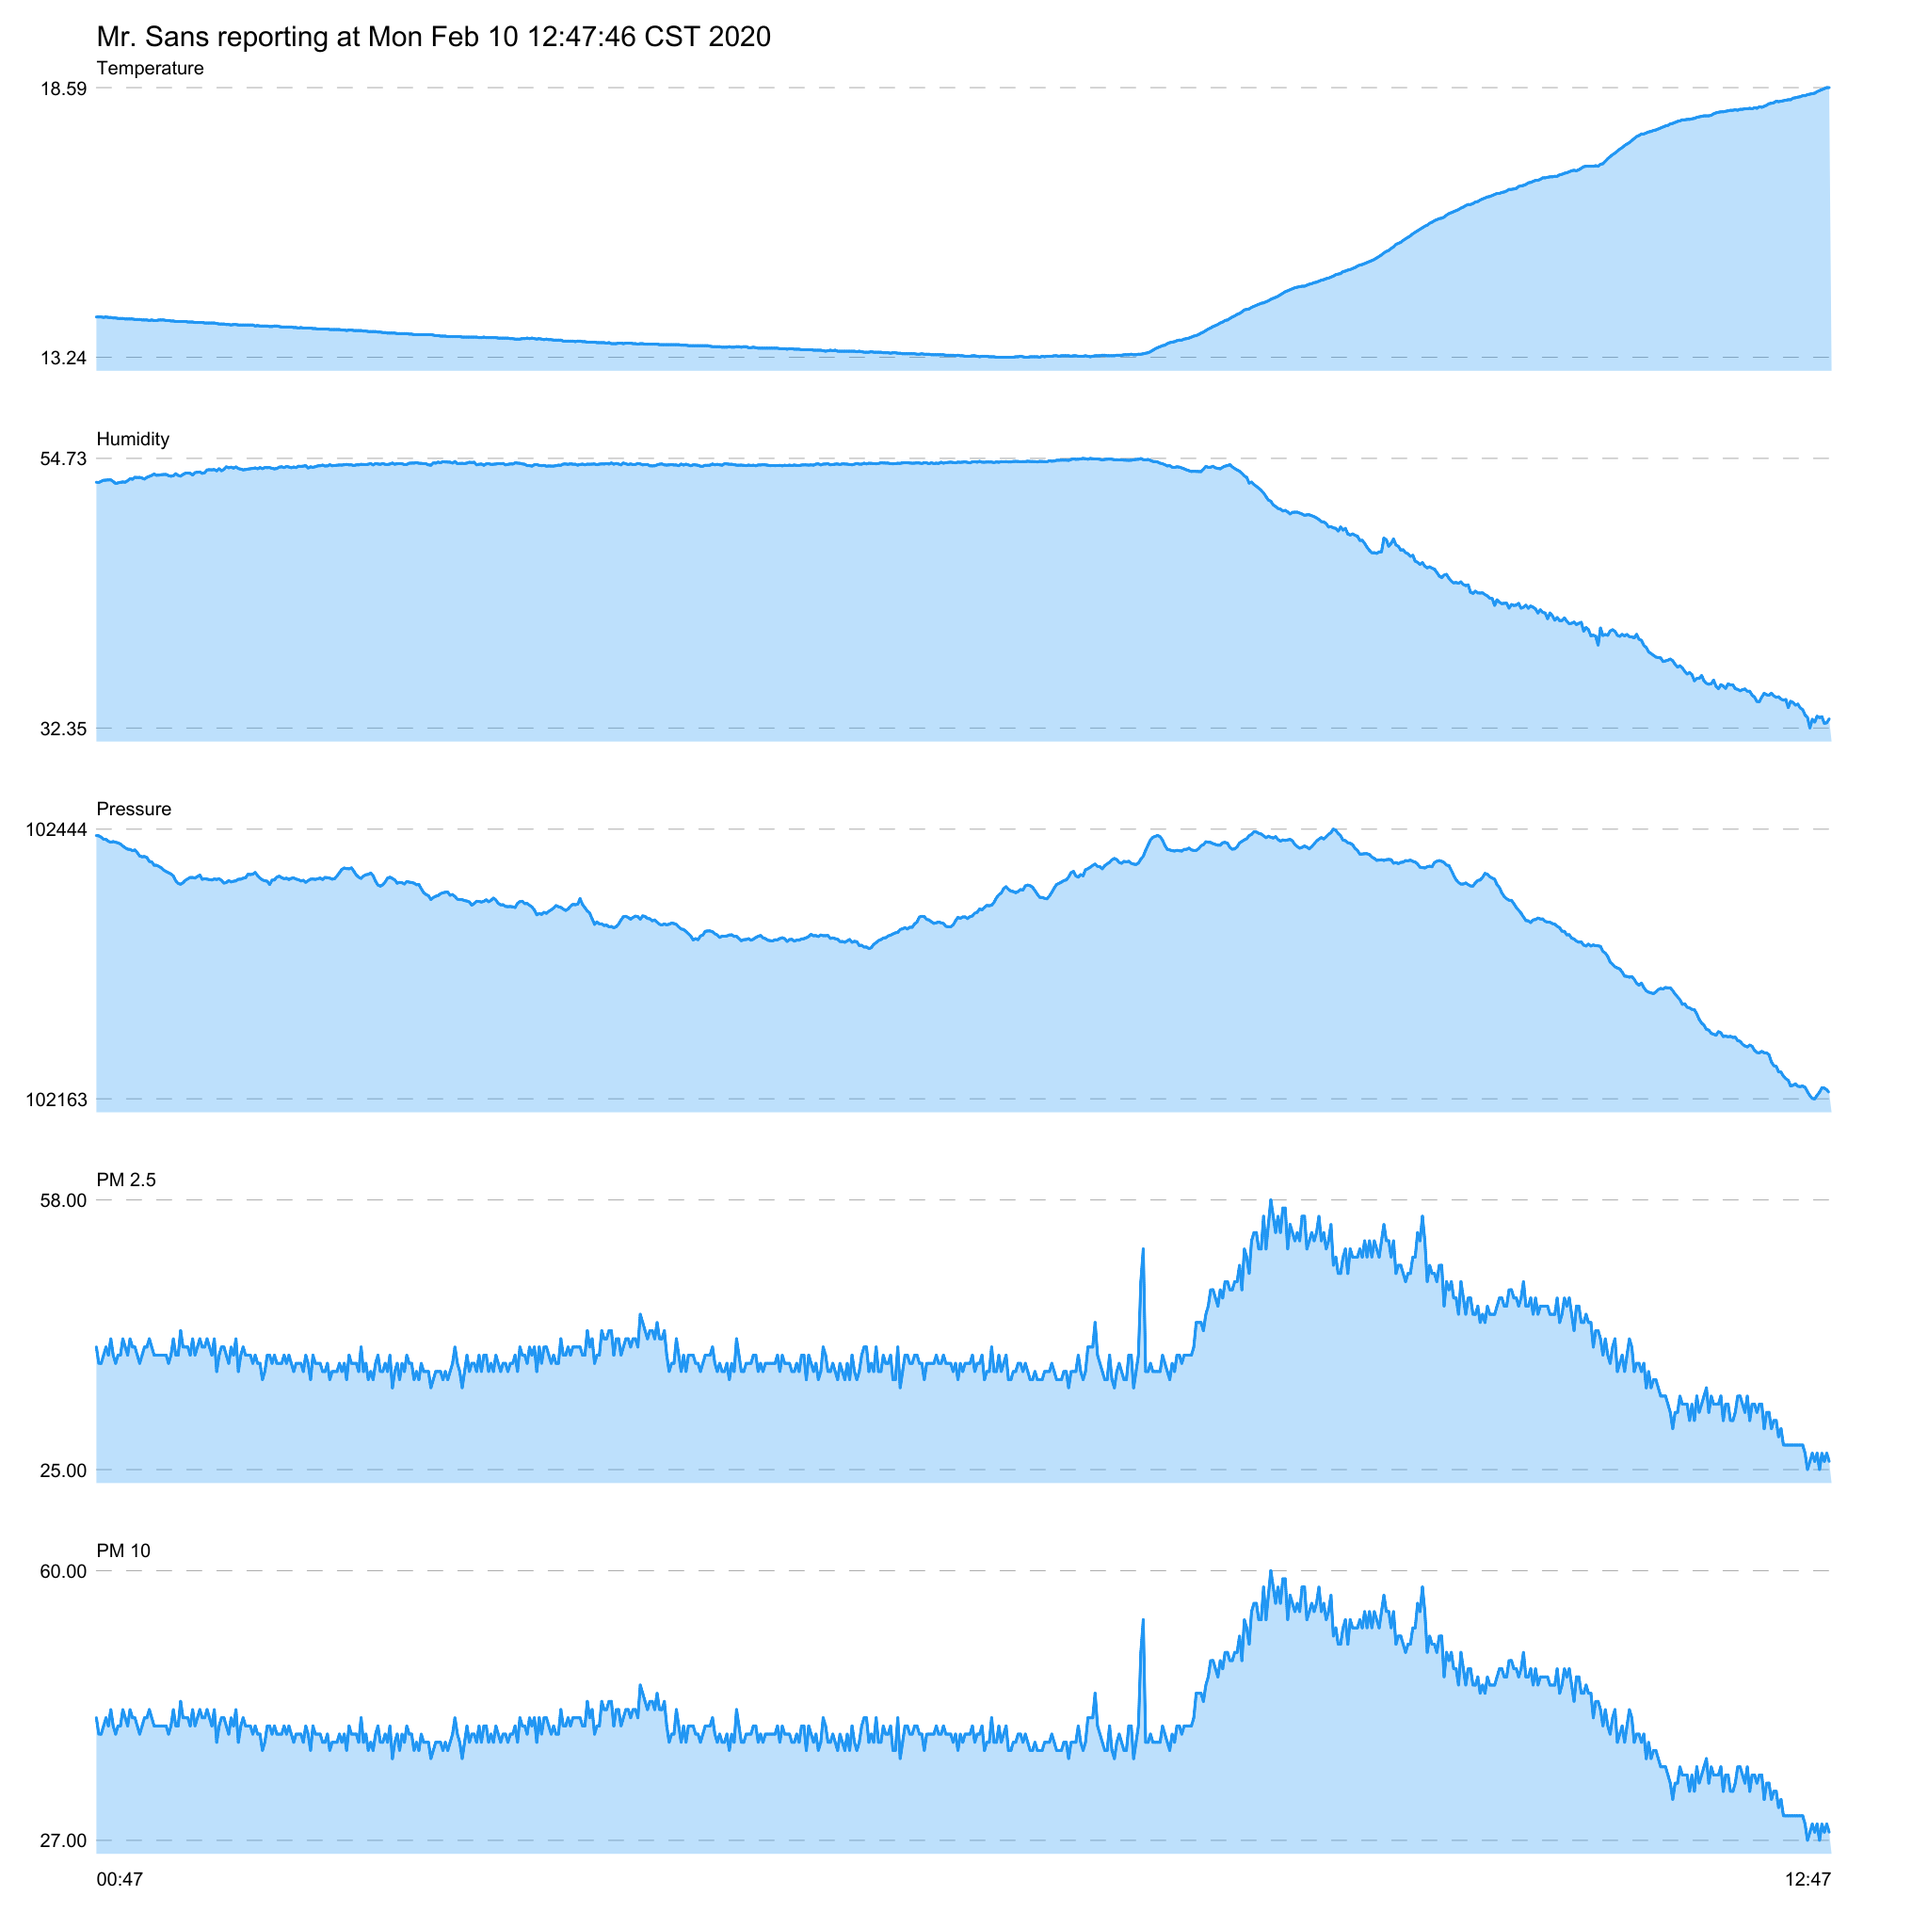
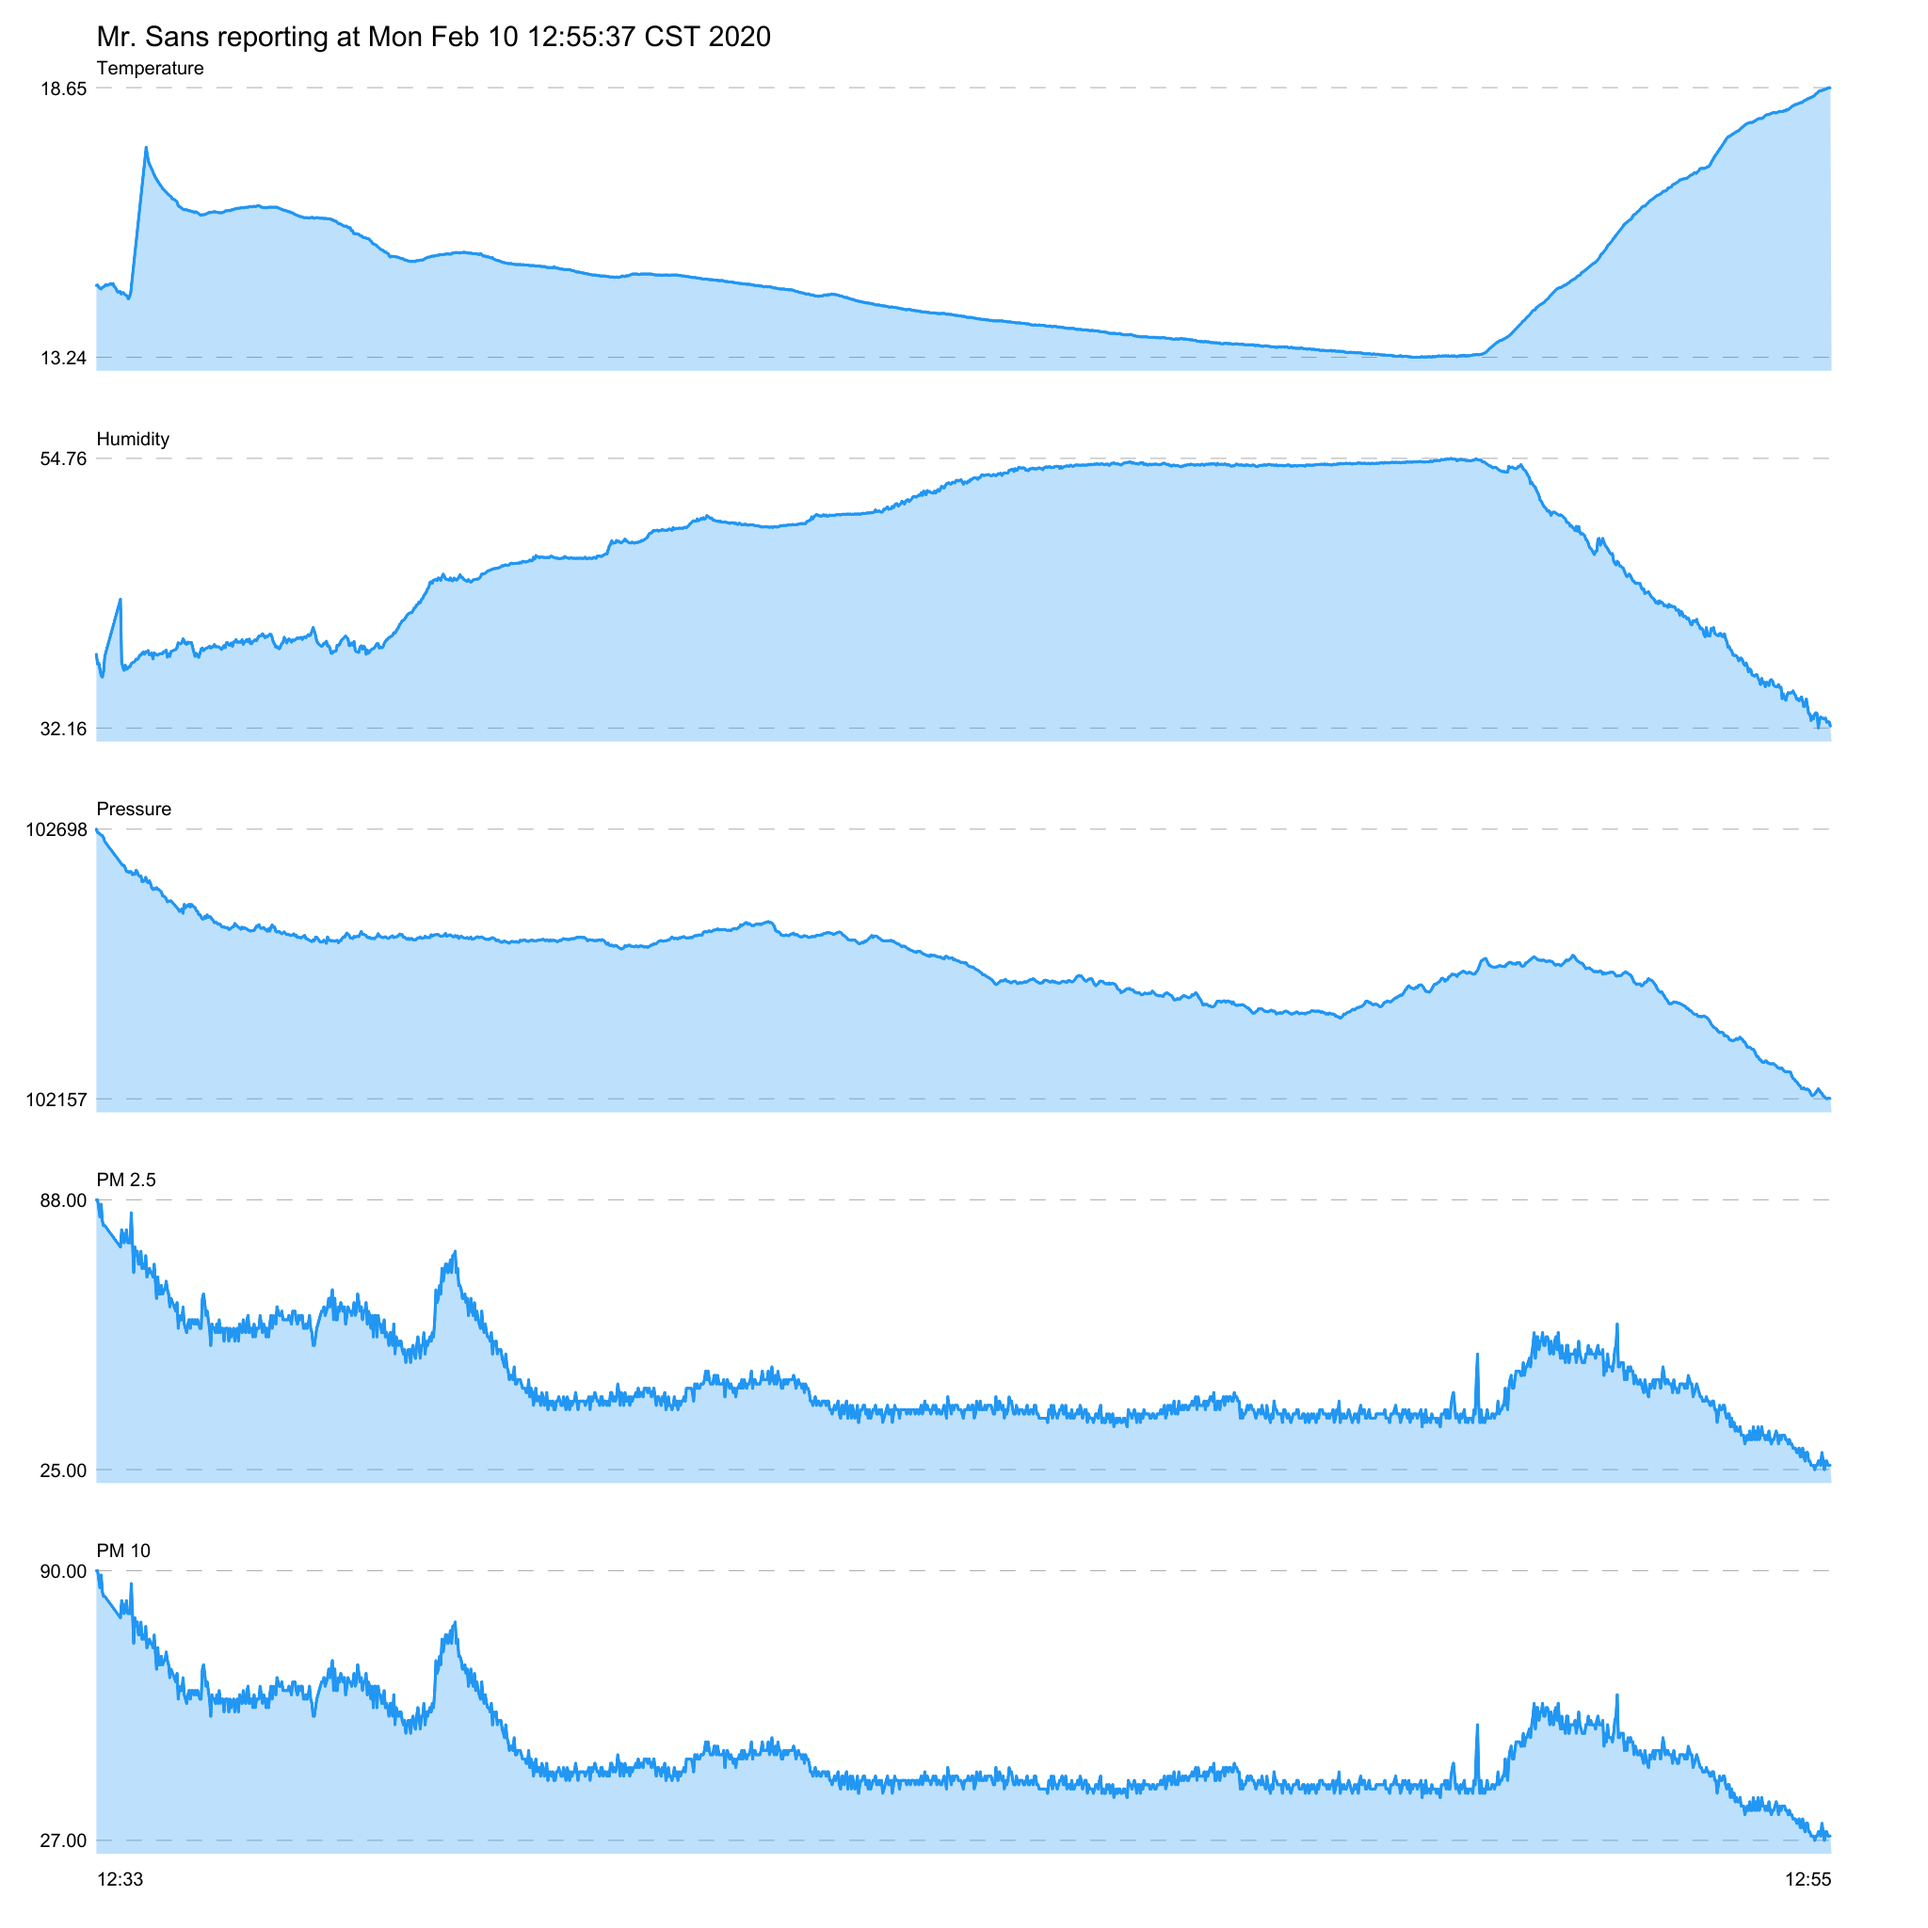
handle NaN in value

diff --git a/mrsans/plot.go b/mrsans/plot.go
@@ -30,16 +30,28 @@ func HeightSeries(total int, height float64) float64 {
 }
 
 func RangeOfSeries(series *[]model.SamplePair) (float64, float64) {
-	min := float64((*series)[0].Value)
-	max := min
+	first := true
+	min := 0.0
+	max := 1.0
 	for _, data := range *series {
-		min = math.Min(min, float64(data.Value))
-		max = math.Max(max, float64(data.Value))
+		val := float64(data.Value)
+		if !math.IsNaN(val) {
+			if first {
+				min = val
+				max = val
+				first = false
+			}
+			min = math.Min(min, val)
+			max = math.Max(max, val)
+		}
 	}
 	return min, max
 }
 
 func PercentageOf(data float64, min float64, max float64, margin float64) float64 {
+	if math.IsNaN(data) {
+		return 0
+	}
 	margin = (max - min) * margin
 	max += margin
 	min -= margin
@@ -93,6 +105,9 @@ func PlotSeries(series *[]model.SamplePair, ctx *gg.Context, y float64, height f
 	ctx.MoveTo(x_offset, y+height)
 	for idx, data := range *series {
 		percent := PercentageOf(float64(data.Value), min, max, margin)
+		if percent == 0 {
+			continue
+		}
 		ypos := height*(1-percent) + y
 		xpos := float64(idx)*width + x_offset
 		ctx.LineTo(xpos, ypos)
@@ -110,6 +125,9 @@ func PlotSeries(series *[]model.SamplePair, ctx *gg.Context, y float64, height f
 		percent := PercentageOf(float64(data.Value), min, max, margin)
 		ypos := height*(1-percent) + y
 		xpos := float64(idx)*width + x_offset
+		if percent == 0 {
+			continue
+		}
 		if first {
 			first = false
 		} else {

diff --git a/mrsans/main.go b/mrsans/main.go
@@ -11,27 +11,27 @@ func main() {
 	log.Info("loading config...")
 	LoadConfig()
 	temp := GetData(QueryTemperature(), v1.Range{
-		Start: time.Now().Add(-time.Hour * 12),
+		Start: time.Now().Add(-time.Hour * 24),
 		End:   time.Now(),
 		Step:  time.Minute,
 	}, context.Background())
 	hum := GetData(QueryHumidity(), v1.Range{
-		Start: time.Now().Add(-time.Hour * 12),
+		Start: time.Now().Add(-time.Hour * 24),
 		End:   time.Now(),
 		Step:  time.Minute,
 	}, context.Background())
 	pa := GetData(QueryPressure(), v1.Range{
-		Start: time.Now().Add(-time.Hour * 12),
+		Start: time.Now().Add(-time.Hour * 24),
 		End:   time.Now(),
 		Step:  time.Minute,
 	}, context.Background())
 	pm25 := GetData(QueryPM25(), v1.Range{
-		Start: time.Now().Add(-time.Hour * 12),
+		Start: time.Now().Add(-time.Hour * 24),
 		End:   time.Now(),
 		Step:  time.Minute,
 	}, context.Background())
 	pm10 := GetData(QueryPM10(), v1.Range{
-		Start: time.Now().Add(-time.Hour * 12),
+		Start: time.Now().Add(-time.Hour * 24),
 		End:   time.Now(),
 		Step:  time.Minute,
 	}, context.Background())
